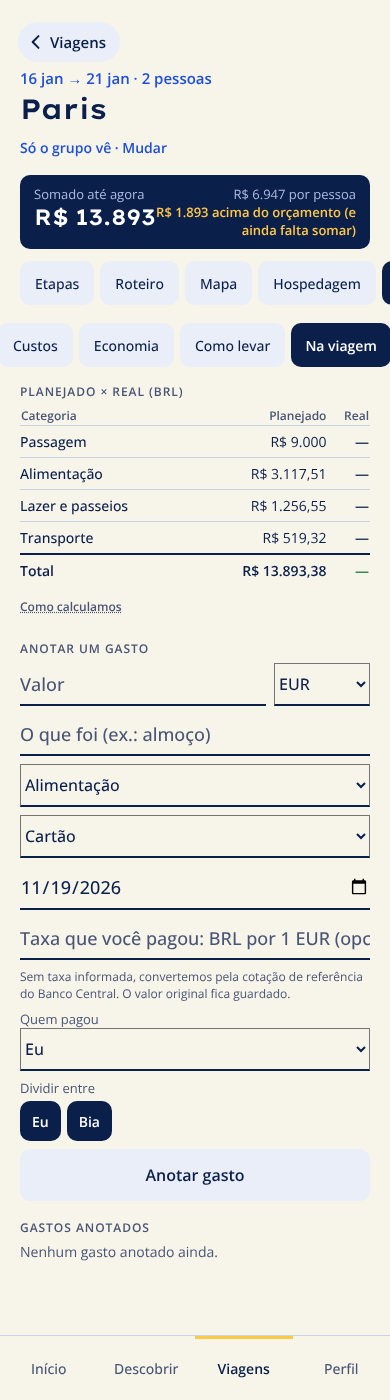
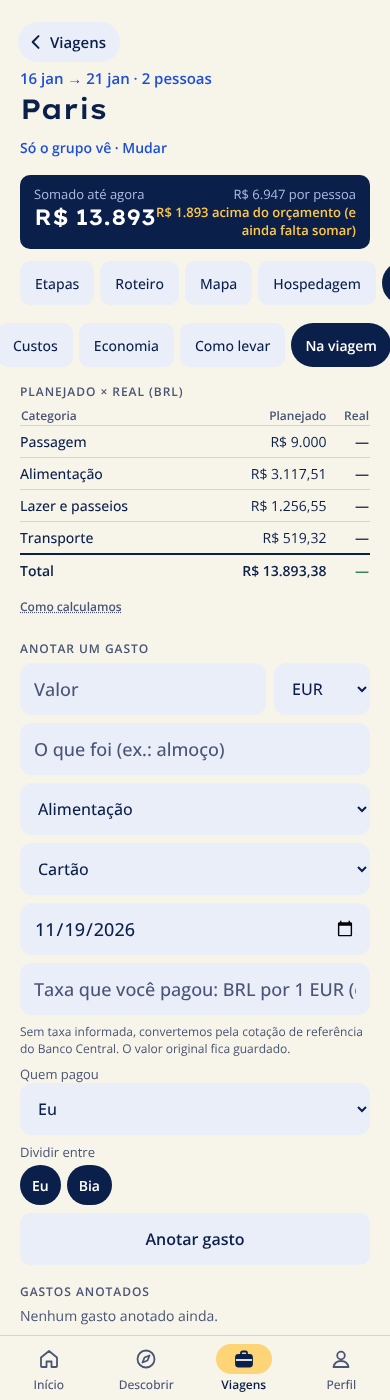
Verificação: comida típica não ganha de dieta vegetariana; ataque ampliado (D-083)
Claude-Session: https://claude.ai/code/session_01SMCD1RyLMEujKJR53wPU2f

diff --git a/apps/app/src/lib/comida.test.ts b/apps/app/src/lib/comida.test.ts
@@ -42,6 +42,12 @@ describe('comida no roteiro (D-041)', () => {
     expect(afinidade(rest('fr', 'francesa', 'fr-paris'), p).motivos).toContain('comida típica do lugar');
     expect(afinidade(rest('fr', 'francesa', 'fr-paris'), { ...p, provar: false }).motivos).not.toContain('comida típica do lugar');
   });
+  it('vegetariano: comida típica sem opção sem carne não ganha ponto; a cozinha que ama ganha (D-083)', () => {
+    const p: Preferencias = { ...base, provar: true, dieta: 'vegetariana', cozinhasAmo: ['japonesa'] };
+    const tipica = rest('fr', 'francesa', 'fr-paris');
+    expect(afinidade(tipica, p).motivos).not.toContain('comida típica do lugar');
+    expect(afinidade(rest('jp', 'japonesa', 'fr-paris'), p).pontos).toBeGreaterThan(afinidade(tipica, p).pontos);
+  });
   it('grupo: a dieta mais restrita vale para todos e o que alguém não come sai', () => {
     const g = mesclar([
       { nome: 'Ana', preferencias: { ...base, dieta: 'tudo', cozinhasEvito: ['pizza'] } },

diff --git a/apps/app/src/lib/planejador.ts b/apps/app/src/lib/planejador.ts
@@ -304,7 +304,10 @@ export function afinidade(l: Lugar, p: Preferencias): { pontos: number; motivos:
       pontos += 2;
       motivos.push('costuma ter pratos sem carne');
     }
-    if (p.provar !== false && cz.some((c) => cozinhaLocal(l.pais).includes(c))) {
+    // Comida típica só soma para quem não come carne se o lugar indicar opção sem carne (D-083).
+    const semCarne = p.dieta === 'vegetariana' || p.dieta === 'vegana';
+    const servePraDieta = !semCarne || informaOpcao(l.opcoesDieta, p.dieta) || cz.some((c) => regrasDaDieta(p.dieta).favorece.includes(c));
+    if (p.provar !== false && servePraDieta && cz.some((c) => cozinhaLocal(l.pais).includes(c))) {
       pontos += 2;
       motivos.push('comida típica do lugar');
     }

diff --git a/docs/produto/DECISOES.md b/docs/produto/DECISOES.md
@@ -947,3 +947,10 @@ contexto e o que muda. Decisões técnicas detalhadas vão para ADRs
 - Perfil → "Minhas fotos": tudo o que eu postei, num lugar só.
 - Feed "Viagens da galera": até 5 fotos do álbum deslizam no próprio cartão, com pontinhos.
 - Funções no banco: fotos_da_pessoa e fotos_das_viagens (security definer, mesmas regras de visibilidade).
+
+## D-083 — Verificação minuciosa (19/11): comida típica e vegetariano
+- Achado no teste "comida": para quem é vegetariano e adora japonesa, o jantar virou um lugar de "comida típica"
+  sem opção sem carne (efeito colateral do D-078). Regra: "comida típica do lugar" só soma para vegetariano/vegano
+  se o lugar indicar opção sem carne ou for de cozinha que a dieta favorece. Teste unitário novo.
+- Teste de ataque ampliado com 16 tentativas contra o que foi criado hoje (feed, fotos no perfil, fotos por
+  viagem, experiências, mídia de avaliação, moderação): todas bloqueadas.
